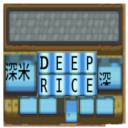
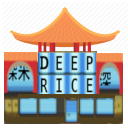
Fix chinese restaurant again. Will stop obsessing about it now.

diff --git a/resources/src/maps/chinese-restaurant.tsx b/resources/src/maps/chinese-restaurant.tsx
@@ -1,4 +1,4 @@
 <?xml version="1.0" encoding="UTF-8"?>
-<tileset version="1.4" tiledversion="1.4.1" name="chinese-restaurant" tilewidth="16" tileheight="16" tilecount="60" columns="10">
- <image source="assets/chinese-restaurant.png" width="160" height="103"/>
+<tileset version="1.4" tiledversion="1.4.1" name="chinese-restaurant" tilewidth="16" tileheight="16" tilecount="64" columns="8">
+ <image source="assets/chinese-restaurant.png" width="128" height="128"/>
 </tileset>
